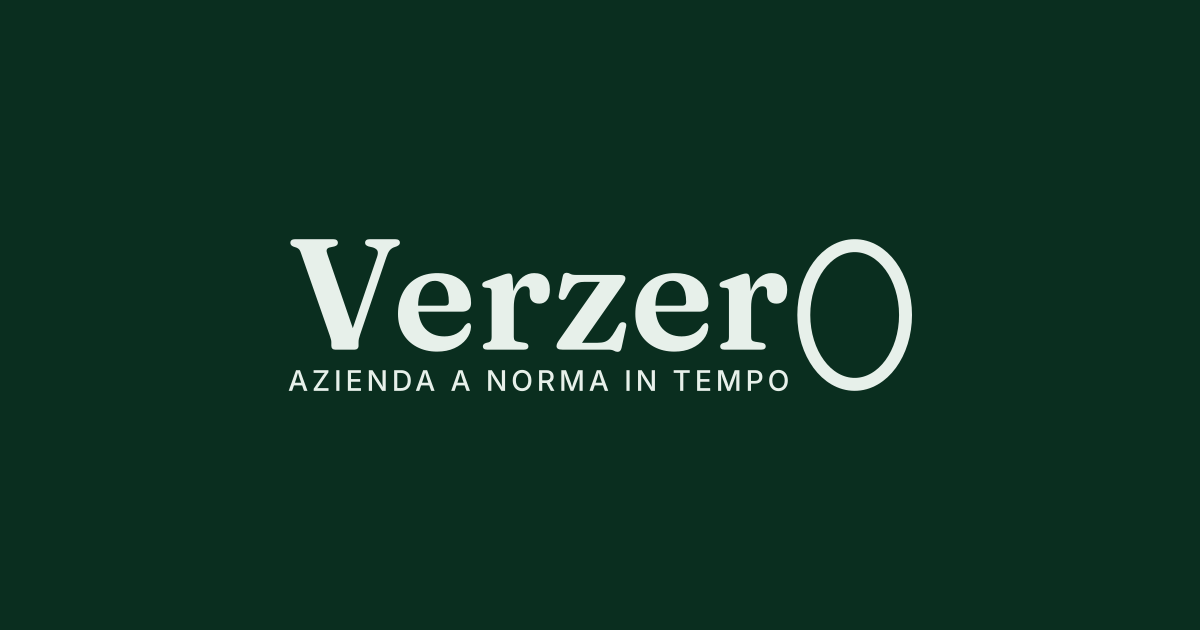
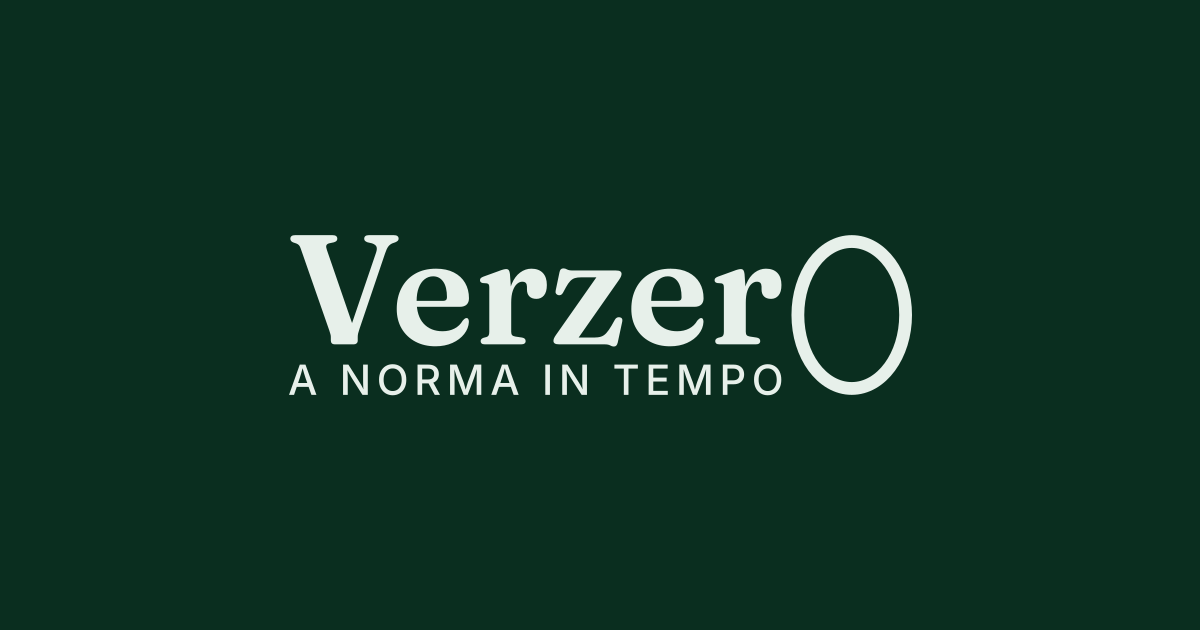
Il payoff si accorcia, e la riga del marchio cresce per stargli dietro
«A norma in tempo zero»: niente soggetto, niente punteggiatura, zero
minuscolo — lì è l'aggettivo di «tempo», non il nome della cosa, e la
maiuscola in mezzo spezzava in due una frase che non ha virgole. La
costante è una sola e da lì scendono titolo del sito, slogan dei dati
strutturati, llms.txt, firma delle email e la riga 2 del lockup.

Nel marchio la riga 2 passa da ventiquattro caratteri a sedici, e le due
righe devono restare della stessa larghezza. Con la crenatura ferma
restava corta di un terzo; allargando solo la crenatura servivano trenta
centesimi di em fra una lettera e l'altra, cioè sedici lettere sparse.
Quindi cresce il CORPO — da 0,18 a 0,2663 em — e la crenatura resta
esattamente quella di prima, 13,5% del corpo: il payoff spazia come
spaziava e tutto il lavoro lo fa la scala, che è l'unica variabile che
non cambia il carattere della riga. Misurato in pagina: le due righe
finiscono sullo stesso pixel, e lo zero grande poggia sulla linea di
base del payoff a due centesimi di pixel.

Il payoff più grande ha abbassato la soglia sotto cui il lockup ripiega
sulla variante semplice: 56 px non erano più giustificati, perché a 38
il payoff è già ai dieci pixel che servono per leggerlo. La soglia ora
si calcola da quel numero invece di essere scelta — ed è così che ho
scoperto il difetto: la targa scaricabile era agganciata alla soglia, e
si sarebbe rimpicciolita di un terzo da sola. Una soglia dice quanto in
[…]

Changed region(s): [[0.2158, 0.3619, 0.74, 0.6333]]

diff --git a/src/lib/marchio-tracciati.ts b/src/lib/marchio-tracciati.ts
@@ -27,6 +27,6 @@ export const TRACCIATO_NOME =
 export const TRACCIATO_NOME_CORTO =
   "M0.4885 -0.6770Q0.4885 -0.6880 0.4960 -0.6940Q0.5035 -0.7000 0.5190 -0.7000L0.6780 -0.7000Q0.6940 -0.7000 0.7015 -0.6940Q0.7090 -0.6880 0.7090 -0.6775Q0.7090 -0.6695 0.7040 -0.6643Q0.6990 -0.6590 0.6875 -0.6540L0.6690 -0.6475Q0.6530 -0.6405 0.6428 -0.6270Q0.6325 -0.6135 0.6225 -0.5835L0.4580 -0.0985Q0.4520 -0.0810 0.4495 -0.0700Q0.4470 -0.0590 0.4470 -0.0475L0.4470 -0.0245Q0.4470 -0.0130 0.4400 -0.0065Q0.4330 0.0000 0.4220 0.0000L0.2990 0.0000Q0.2875 0.0000 0.2810 -0.0065Q0.2745 -0.0130 0.2745 -0.0255L0.2745 -0.0485Q0.2745 -0.0565 0.2717 -0.0660Q0.2690 -0.0755 0.2650 -0.0880L0.0820 -0.6125Q0.0770 -0.6280 0.0707 -0.6350Q0.0645 -0.6420 0.0535 -0.6465L0.0340 -0.6530Q0.0150 -0.6605 0.0150 -0.6770Q0.0150 -0.6880 0.0227 -0.6940Q0.0305 -0.7000 0.0460 -0.7000L0.2850 -0.7000Q0.3010 -0.7000 0.3085 -0.6940Q0.3160 -0.6880 0.3160 -0.6770Q0.3160 -0.6680 0.3105 -0.6627Q0.3050 -0.6575 0.2940 -0.6540L0.2615 -0.6470Q0.2485 -0.6425 0.2455 -0.6330Q0.2425 -0.6235 0.2500 -0.6030L0.4280 -0.0855L0.3810 -0.0495L0.5645 -0.5880Q0.5725 -0.6120 0.5673 -0.6255Q0.5620 -0.6390 0.5385 -0.6475L0.5100 -0.6540Q0.4995 -0.6580 0.4940 -0.6630Q0.4885 -0.6680 0.4885 -0.6770ZM1.1600 -0.2955Q1.1600 -0.2690 1.1450 -0.2547Q1.1300 -0.2405 1.1010 -0.2405L0.7890 -0.2405L0.7890 -0.2785L0.9935 -0.2785Q1.0190 -0.2785 1.0190 -0.3015Q1.0190 -0.3675 0.9950 -0.4017Q0.9710 -0.4360 0.9305 -0.4360Q0.8995 -0.4360 0.8755 -0.4170Q0.8515 -0.3980 0.8380 -0.3628Q0.8245 -0.3275 0.8245 -0.2775Q0.8245 -0.1810 0.8697 -0.1325Q0.9150 -0.0840 0.9905 -0.0840Q1.0345 -0.0840 1.0677 -0.1015Q1.1010 -0.1190 1.1195 -0.1515Q1.1285 -0.1615 1.1337 -0.1650Q1.1390 -0.1685 1.1445 -0.1685Q1.1525 -0.1685 1.1560 -0.1613Q1.1595 -0.1540 1.1595 -0.1440Q1.1575 -0.1020 1.1295 -0.0663Q1.1015 -0.0305 1.0540 -0.0090Q1.0065 0.0125 0.9450 0.0125Q0.8725 0.0125 0.8165 -0.0173Q0.7605 -0.0470 0.7287 -0.1008Q0.6970 -0.1545 0.6970 -0.2265Q0.6970 -0.3020 0.7272 -0.3605Q0.7575 -0.4190 0.8140 -0.4520Q0.8705 -0.4850 0.9490 -0.4850Q1.0160 -0.4850 1.0632 -0.4607Q1.1105 -0.4365 1.1352 -0.3937Q1.1600 -0.3510 1.1600 -0.2955ZM1.4132 -0.2650Q1.4132 -0.3375 1.4337 -0.3865Q1.4542 -0.4355 1.4877 -0.4602Q1.5212 -0.4850 1.5597 -0.4850Q1.6072 -0.4850 1.6332 -0.4580Q1.6592 -0.4310 1.6592 -0.3805Q1.6592 -0.3355 1.6407 -0.3135Q1.6222 -0.2915 1.5927 -0.2915Q1.5627 -0.2915 1.5472 -0.3075Q1.5317 -0.3235 1.5317 -0.3520L1.5317 -0.3700Q1.5312 -0.3860 1.5242 -0.3937Q1.5172 -0.4015 1.5012 -0.4015Q1.4837 -0.4015 1.4674 -0.3870Q1.4512 -0.3725 1.4409 -0.3430Q1.4307 -0.3135 1.4307 -0.2675L1.4132 -0.2650ZM1.4227 -0.4505L1.4307 -0.3370L1.4307 -0.0805Q1.4307 -0.0660 1.4365 -0.0592Q1.4422 -0.0525 1.4572 -0.0500L1.5002 -0.0435Q1.5117 -0.0415 1.5174 -0.0360Q1.5232 -0.0305 1.5232 -0.0210Q1.5232 -0.0110 1.5160 -0.0055Q1.5087 0.0000 1.4952 0.0000L1.2617 0.0000Q1.2477 0.0000 1.2412 -0.0055Q1.2347 -0.0110 1.2347 -0.0205Q1.2347 -0.0280 1.2392 -0.0333Q1.2437 -0.0385 1.2532 -0.0420L1.2727 -0.0470Q1.2817 -0.0500 1.2860 -0.0573Q1.2902 -0.0645 1.2902 -0.0800L1.2902 -0.3655Q1.2902 -0.3785 1.2865 -0.3840Q1.2827 -0.3895 1.2742 -0.3910L1.2477 -0.3930Q1.2387 -0.3950 1.2347 -0.3995Q1.2307 -0.4040 1.2307 -0.4110Q1.2307 -0.4195 1.2357 -0.4245Q1.2407 -0.4295 1.2537 -0.4345L1.3447 -0.4675Q1.3692 -0.4770 1.3807 -0.4798Q1.3922 -0.4825 1.3987 -0.4825Q1.4097 -0.4825 1.4152 -0.4753Q1.4207 -0.4680 1.4227 -0.4505Z";
 
-/** «AZIENDA A NORMA IN TEMPO» in Inter 500, già crenato per il lockup. */
+/** «A NORMA IN TEMPO» in Inter 500, già crenato per il lockup. */
 export const TRACCIATO_PAYOFF =
-  "M0.0249 0.0000L0.2837 -0.7275L0.4204 -0.7275L0.6841 0.0000L0.5635 0.0000L0.4219 -0.4048Q0.4053 -0.4541 0.3855 -0.5210Q0.3657 -0.5879 0.3398 -0.6816L0.3623 -0.6816Q0.3374 -0.5869 0.3176 -0.5193Q0.2979 -0.4517 0.2827 -0.4048L0.1455 0.0000L0.0249 0.0000ZM0.1650 -0.1919L0.1650 -0.2847L0.5435 -0.2847L0.5435 -0.1919L0.1650 -0.1919ZM0.9047 0.0000L0.9047 -0.0732L1.2196 -0.5347Q1.2435 -0.5693 1.2711 -0.6040Q1.2987 -0.6387 1.3261 -0.6729L1.3368 -0.6367Q1.2904 -0.6333 1.2438 -0.6326Q1.1972 -0.6318 1.1513 -0.6318L0.9017 -0.6318L0.9017 -0.7275L1.4232 -0.7275L1.4232 -0.6533L1.1132 -0.1997Q1.0878 -0.1631 1.0592 -0.1267Q1.0307 -0.0903 1.0018 -0.0547L0.9911 -0.0908Q1.0380 -0.0942 1.0849 -0.0950Q1.1317 -0.0957 1.1786 -0.0957L1.4262 -0.0957L1.4262 0.0000L0.9047 0.0000ZM1.8110 -0.7275L1.8110 0.0000L1.6997 0.0000L1.6997 -0.7275L1.8110 -0.7275ZM2.1071 0.0000L2.1071 -0.7275L2.5651 -0.7275L2.5651 -0.6318L2.2184 -0.6318L2.2184 -0.4150L2.5402 -0.4150L2.5402 -0.3198L2.2184 -0.3198L2.2184 -0.0957L2.5680 -0.0957L2.5680 0.0000L2.1071 0.0000ZM2.8451 0.0000L2.8451 -0.7275L2.9735 -0.7275L3.2474 -0.2944Q3.2611 -0.2729 3.2782 -0.2432Q3.2953 -0.2134 3.3143 -0.1760Q3.3333 -0.1387 3.3519 -0.0947L3.3382 -0.0947Q3.3338 -0.1362 3.3316 -0.1770Q3.3294 -0.2178 3.3285 -0.2534Q3.3275 -0.2891 3.3275 -0.3135L3.3275 -0.7275L3.4403 -0.7275L3.4403 0.0000L3.3114 0.0000L3.0658 -0.3872Q3.0462 -0.4189 3.0274 -0.4512Q3.0086 -0.4834 2.9859 -0.5256Q2.9632 -0.5679 2.9305 -0.6284L2.9481 -0.6284Q2.9505 -0.5747 2.9530 -0.5281Q2.9554 -0.4814 2.9566 -0.4456Q2.9579 -0.4097 2.9579 -0.3882L2.9579 0.0000L2.8451 0.0000ZM3.9725 0.0000L3.7928 0.0000L3.7928 -0.0977L3.9667 -0.0977Q4.0492 -0.0977 4.1039 -0.1284Q4.1585 -0.1592 4.1859 -0.2190Q4.2132 -0.2788 4.2132 -0.3647Q4.2132 -0.4502 4.1861 -0.5093Q4.1590 -0.5684 4.1056 -0.5991Q4.0521 -0.6299 3.9725 -0.6299L3.7889 -0.6299L3.7889 -0.7275L3.9798 -0.7275Q4.0873 -0.7275 4.1639 -0.6841Q4.2406 -0.6406 4.2816 -0.5593Q4.3226 -0.4780 4.3226 -0.3647Q4.3226 -0.2510 4.2814 -0.1694Q4.2401 -0.0879 4.1617 -0.0439Q4.0834 0.0000 3.9725 0.0000ZM3.8475 -0.7275L3.8475 0.0000L3.7362 0.0000L3.7362 -0.7275L3.8475 -0.7275ZM4.5004 0.0000L4.7592 -0.7275L4.8959 -0.7275L5.1595 0.0000L5.0389 0.0000L4.8973 -0.4048Q4.8807 -0.4541 4.8610 -0.5210Q4.8412 -0.5879 4.8153 -0.6816L4.8378 -0.6816Q4.8129 -0.5869 4.7931 -0.5193Q4.7733 -0.4517 4.7582 -0.4048L4.6210 0.0000L4.5004 0.0000ZM4.6405 -0.1919L4.6405 -0.2847L5.0189 -0.2847L5.0189 -0.1919L4.6405 -0.1919ZM5.7453 0.0000L6.0041 -0.7275L6.1408 -0.7275L6.4045 0.0000L6.2839 0.0000L6.1423 -0.4048Q6.1257 -0.4541 6.1059 -0.5210Q6.0861 -0.5879 6.0602 -0.6816L6.0827 -0.6816Q6.0578 -0.5869 6.0380 -0.5193Q6.0182 -0.4517 6.0031 -0.4048L5.8659 0.0000L5.7453 0.0000ZM5.8854 -0.1919L5.8854 -0.2847L6.2638 -0.2847L6.2638 -0.1919L5.8854 -0.1919ZM7.0459 0.0000L7.0459 -0.7275L7.1743 -0.7275L7.4482 -0.2944Q7.4619 -0.2729 7.4790 -0.2432Q7.4961 -0.2134 7.5151 -0.1760Q7.5341 -0.1387 7.5527 -0.0947L7.5390 -0.0947Q7.5346 -0.1362 7.5324 -0.1770Q7.5302 -0.2178 7.5293 -0.2534Q7.5283 -0.2891 7.5283 -0.3135L7.5283 -0.7275L7.6411 -0.7275L7.6411 0.0000L7.5122 0.0000L7.2666 -0.3872Q7.2470 -0.4189 7.2282 -0.4512Q7.2094 -0.4834 7.1867 -0.5256Q7.1640 -0.5679 7.1313 -0.6284L7.1489 -0.6284Q7.1513 -0.5747 7.1538 -0.5281Q7.1562 -0.4814 7.1574 -0.4456Q7.1587 -0.4097 7.1587 -0.3882L7.1587 0.0000L7.0459 0.0000ZM8.2402 0.0098Q8.1460 0.0098 8.0715 -0.0349Q7.9970 -0.0796 7.9543 -0.1633Q7.9116 -0.2471 7.9116 -0.3633Q7.9116 -0.4800 7.9543 -0.5637Q7.9970 -0.6475 8.0715 -0.6924Q8.1460 -0.7373 8.2402 -0.7373Q8.3344 -0.7373 8.4084 -0.6924Q8.4824 -0.6475 8.5251 -0.5637Q8.5678 -0.4800 8.5678 -0.3633Q8.5678 -0.2471 8.5251 -0.1633Q8.4824 -0.0796 8.4084 -0.0349Q8.3344 0.0098 8.2402 0.0098ZM8.2402 -0.0918Q8.3022 -0.0918 8.3513 -0.1228Q8.4004 -0.1538 8.4289 -0.2146Q8.4575 -0.2754 8.4575 -0.3633Q8.4575 -0.4521 8.4289 -0.5129Q8.4004 -0.5737 8.3513 -0.6047Q8.3022 -0.6357 8.2402 -0.6357Q8.1777 -0.6357 8.1284 -0.6045Q8.0791 -0.5732 8.0505 -0.5125Q8.0219 -0.4517 8.0219 -0.3633Q8.0219 -0.2754 8.0505 -0.2148Q8.0791 -0.1543 8.1284 -0.1230Q8.1777 -0.0918 8.2402 -0.0918ZM8.8384 0.0000L8.8384 -0.7275L9.0991 -0.7275Q9.1831 -0.7275 9.2392 -0.6985Q9.2954 -0.6694 9.3232 -0.6177Q9.3511 -0.5659 9.3511 -0.4990Q9.3511 -0.4316 9.3230 -0.3811Q9.2949 -0.3306 9.2388 -0.3027Q9.1826 -0.2749 9.0981 -0.2749L8.9023 -0.2749L8.9023 -0.3701L9.0874 -0.3701Q9.1411 -0.3701 9.1741 -0.3855Q9.2070 -0.4009 9.2226 -0.4297Q9.2383 -0.4585 9.2383 -0.4990Q9.2383 -0.5400 9.2226 -0.5698Q9.2070 -0.5996 9.1738 -0.6160Q9.1406 -0.6323 9.0864 -0.6323L8.9497 -0.6323L8.9497 0.0000L8.8384 0.0000ZM9.2519 0.0000L9.0757 -0.3286L9.1992 -0.3286L9.3784 0.0000L9.2519 0.0000ZM9.6211 0.0000L9.6211 -0.7275L9.7852 -0.7275L9.9439 -0.3101Q9.9507 -0.2915 9.9593 -0.2632Q9.9678 -0.2349 9.9771 -0.2017Q9.9864 -0.1685 9.9947 -0.1362Q10.0030 -0.1040 10.0093 -0.0781L9.9859 -0.0781Q9.9922 -0.1025 10.0005 -0.1345Q10.0088 -0.1665 10.0181 -0.1997Q10.0274 -0.2329 10.0362 -0.2622Q10.0449 -0.2915 10.0518 -0.3101L10.2080 -0.7275L10.3731 -0.7275L10.3731 0.0000L10.2622 0.0000L10.2622 -0.3916Q10.2622 -0.4141 10.2627 -0.4453Q10.2632 -0.4766 10.2639 -0.5115Q10.2647 -0.5464 10.2654 -0.5820Q10.2661 -0.6177 10.2666 -0.6504L10.2749 -0.6504Q10.2652 -0.6147 10.2537 -0.5769Q10.2422 -0.5391 10.2312 -0.5039Q10.2202 -0.4688 10.2102 -0.4397Q10.2002 -0.4106 10.1934 -0.3916L10.0445 0.0000L9.9492 0.0000L9.7984 -0.3916Q9.7910 -0.4102 9.7815 -0.4387Q9.7720 -0.4673 9.7608 -0.5022Q9.7495 -0.5371 9.7378 -0.5750Q9.7261 -0.6128 9.7144 -0.6504L9.7241 -0.6504Q9.7251 -0.6206 9.7259 -0.5857Q9.7266 -0.5508 9.7273 -0.5151Q9.7280 -0.4795 9.7288 -0.4475Q9.7295 -0.4155 9.7295 -0.3916L9.7295 0.0000L9.6211 0.0000ZM10.6131 0.0000L10.8719 -0.7275L11.0086 -0.7275L11.2722 0.0000L11.1516 0.0000L11.0100 -0.4048Q10.9934 -0.4541 10.9737 -0.5210Q10.9539 -0.5879 10.9280 -0.6816L10.9505 -0.6816Q10.9256 -0.5869 10.9058 -0.5193Q10.8860 -0.4517 10.8709 -0.4048L10.7337 0.0000L10.6131 0.0000ZM10.7532 -0.1919L10.7532 -0.2847L11.1316 -0.2847L11.1316 -0.1919L10.7532 -0.1919ZM12.0250 -0.7275L12.0250 0.0000L11.9136 0.0000L11.9136 -0.7275L12.0250 -0.7275ZM12.3210 0.0000L12.3210 -0.7275L12.4495 -0.7275L12.7234 -0.2944Q12.7371 -0.2729 12.7542 -0.2432Q12.7712 -0.2134 12.7903 -0.1760Q12.8093 -0.1387 12.8279 -0.0947L12.8142 -0.0947Q12.8098 -0.1362 12.8076 -0.1770Q12.8054 -0.2178 12.8044 -0.2534Q12.8035 -0.2891 12.8035 -0.3135L12.8035 -0.7275L12.9163 -0.7275L12.9163 0.0000L12.7874 0.0000L12.5417 -0.3872Q12.5222 -0.4189 12.5034 -0.4512Q12.4846 -0.4834 12.4619 -0.5256Q12.4392 -0.5679 12.4065 -0.6284L12.4241 -0.6284Q12.4265 -0.5747 12.4290 -0.5281Q12.4314 -0.4814 12.4326 -0.4456Q12.4338 -0.4097 12.4338 -0.3882L12.4338 0.0000L12.3210 0.0000ZM13.5768 -0.6318L13.5768 -0.7275L14.1418 -0.7275L14.1418 -0.6318L13.9157 -0.6318L13.9157 0.0000L13.8039 0.0000L13.8039 -0.6318L13.5768 -0.6318ZM14.4011 0.0000L14.4011 -0.7275L14.8591 -0.7275L14.8591 -0.6318L14.5125 -0.6318L14.5125 -0.4150L14.8342 -0.4150L14.8342 -0.3198L14.5125 -0.3198L14.5125 -0.0957L14.8621 -0.0957L14.8621 0.0000L14.4011 0.0000ZM15.1391 0.0000L15.1391 -0.7275L15.3032 -0.7275L15.4619 -0.3101Q15.4687 -0.2915 15.4773 -0.2632Q15.4858 -0.2349 15.4951 -0.2017Q15.5044 -0.1685 15.5127 -0.1362Q15.5210 -0.1040 15.5273 -0.0781L15.5039 -0.0781Q15.5102 -0.1025 15.5185 -0.1345Q15.5268 -0.1665 15.5361 -0.1997Q15.5454 -0.2329 15.5542 -0.2622Q15.5630 -0.2915 15.5698 -0.3101L15.7260 -0.7275L15.8911 -0.7275L15.8911 0.0000L15.7802 0.0000L15.7802 -0.3916Q15.7802 -0.4141 15.7807 -0.4453Q15.7812 -0.4766 15.7819 -0.5115Q15.7827 -0.5464 15.7834 -0.5820Q15.7841 -0.6177 15.7846 -0.6504L15.7929 -0.6504Q15.7832 -0.6147 15.7717 -0.5769Q15.7602 -0.5391 15.7492 -0.5039Q15.7382 -0.4688 15.7282 -0.4397Q15.7182 -0.4106 15.7114 -0.3916L15.5625 0.0000L15.4673 0.0000L15.3164 -0.3916Q15.3090 -0.4102 15.2995 -0.4387Q15.2900 -0.4673 15.2788 -0.5022Q15.2675 -0.5371 15.2558 -0.5750Q15.2441 -0.6128 15.2324 -0.6504L15.2422 -0.6504Q15.2431 -0.6206 15.2439 -0.5857Q15.2446 -0.5508 15.2453 -0.5151Q15.2461 -0.4795 15.2468 -0.4475Q15.2475 -0.4155 15.2475 -0.3916L15.2475 0.0000L15.1391 0.0000ZM16.1867 0.0000L16.1867 -0.7275L16.4475 -0.7275Q16.5315 -0.7275 16.5876 -0.6963Q16.6438 -0.6650 16.6716 -0.6118Q16.6994 -0.5586 16.6994 -0.4912Q16.6994 -0.4238 16.6714 -0.3704Q16.6433 -0.3169 16.5871 -0.2859Q16.5310 -0.2549 16.4465 -0.2549L16.2683 -0.2549L16.2683 -0.3491L16.4358 -0.3491Q16.4895 -0.3491 16.5227 -0.3677Q16.5559 -0.3862 16.5713 -0.4185Q16.5866 -0.4507 16.5866 -0.4912Q16.5866 -0.5322 16.5713 -0.5642Q16.5559 -0.5962 16.5224 -0.6143Q16.4890 -0.6323 16.4348 -0.6323L16.2981 -0.6323L16.2981 0.0000L16.1867 0.0000ZM17.2666 0.0098Q17.1724 0.0098 17.0979 -0.0349Q17.0234 -0.0796 16.9807 -0.1633Q16.9380 -0.2471 16.9380 -0.3633Q16.9380 -0.4800 16.9807 -0.5637Q17.0234 -0.6475 17.0979 -0.6924Q17.1724 -0.7373 17.2666 -0.7373Q17.3608 -0.7373 17.4348 -0.6924Q17.5088 -0.6475 17.5515 -0.5637Q17.5942 -0.4800 17.5942 -0.3633Q17.5942 -0.2471 17.5515 -0.1633Q17.5088 -0.0796 17.4348 -0.0349Q17.3608 0.0098 17.2666 0.0098ZM17.2666 -0.0918Q17.3286 -0.0918 17.3777 -0.1228Q17.4268 -0.1538 17.4553 -0.2146Q17.4839 -0.2754 17.4839 -0.3633Q17.4839 -0.4521 17.4553 -0.5129Q17.4268 -0.5737 17.3777 -0.6047Q17.3286 -0.6357 17.2666 -0.6357Q17.2041 -0.6357 17.1548 -0.6045Q17.1055 -0.5732 17.0769 -0.5125Q17.0483 -0.4517 17.0483 -0.3633Q17.0483 -0.2754 17.0769 -0.2148Q17.1055 -0.1543 17.1548 -0.1230Q17.2041 -0.0918 17.2666 -0.0918Z";
+  "M0.0249 0.0000L0.2837 -0.7275L0.4204 -0.7275L0.6841 0.0000L0.5635 0.0000L0.4219 -0.4048Q0.4053 -0.4541 0.3855 -0.5210Q0.3657 -0.5879 0.3398 -0.6816L0.3623 -0.6816Q0.3374 -0.5869 0.3176 -0.5193Q0.2979 -0.4517 0.2827 -0.4048L0.1455 0.0000L0.0249 0.0000ZM0.1650 -0.1919L0.1650 -0.2847L0.5435 -0.2847L0.5435 -0.1919L0.1650 -0.1919ZM1.3255 0.0000L1.3255 -0.7275L1.4539 -0.7275L1.7278 -0.2944Q1.7415 -0.2729 1.7586 -0.2432Q1.7757 -0.2134 1.7947 -0.1760Q1.8138 -0.1387 1.8323 -0.0947L1.8187 -0.0947Q1.8143 -0.1362 1.8121 -0.1770Q1.8099 -0.2178 1.8089 -0.2534Q1.8079 -0.2891 1.8079 -0.3135L1.8079 -0.7275L1.9207 -0.7275L1.9207 0.0000L1.7918 0.0000L1.5462 -0.3872Q1.5267 -0.4189 1.5079 -0.4512Q1.4891 -0.4834 1.4664 -0.5256Q1.4437 -0.5679 1.4109 -0.6284L1.4285 -0.6284Q1.4310 -0.5747 1.4334 -0.5281Q1.4358 -0.4814 1.4371 -0.4456Q1.4383 -0.4097 1.4383 -0.3882L1.4383 0.0000L1.3255 0.0000ZM2.5198 0.0098Q2.4256 0.0098 2.3511 -0.0349Q2.2767 -0.0796 2.2339 -0.1633Q2.1912 -0.2471 2.1912 -0.3633Q2.1912 -0.4800 2.2339 -0.5637Q2.2767 -0.6475 2.3511 -0.6924Q2.4256 -0.7373 2.5198 -0.7373Q2.6141 -0.7373 2.6880 -0.6924Q2.7620 -0.6475 2.8047 -0.5637Q2.8475 -0.4800 2.8475 -0.3633Q2.8475 -0.2471 2.8047 -0.1633Q2.7620 -0.0796 2.6880 -0.0349Q2.6141 0.0098 2.5198 0.0098ZM2.5198 -0.0918Q2.5818 -0.0918 2.6309 -0.1228Q2.6800 -0.1538 2.7085 -0.2146Q2.7371 -0.2754 2.7371 -0.3633Q2.7371 -0.4521 2.7085 -0.5129Q2.6800 -0.5737 2.6309 -0.6047Q2.5818 -0.6357 2.5198 -0.6357Q2.4573 -0.6357 2.4080 -0.6045Q2.3587 -0.5732 2.3301 -0.5125Q2.3016 -0.4517 2.3016 -0.3633Q2.3016 -0.2754 2.3301 -0.2148Q2.3587 -0.1543 2.4080 -0.1230Q2.4573 -0.0918 2.5198 -0.0918ZM3.1180 0.0000L3.1180 -0.7275L3.3787 -0.7275Q3.4627 -0.7275 3.5189 -0.6985Q3.5750 -0.6694 3.6028 -0.6177Q3.6307 -0.5659 3.6307 -0.4990Q3.6307 -0.4316 3.6026 -0.3811Q3.5745 -0.3306 3.5184 -0.3027Q3.4622 -0.2749 3.3778 -0.2749L3.1820 -0.2749L3.1820 -0.3701L3.3670 -0.3701Q3.4207 -0.3701 3.4537 -0.3855Q3.4866 -0.4009 3.5023 -0.4297Q3.5179 -0.4585 3.5179 -0.4990Q3.5179 -0.5400 3.5023 -0.5698Q3.4866 -0.5996 3.4534 -0.6160Q3.4202 -0.6323 3.3660 -0.6323L3.2293 -0.6323L3.2293 0.0000L3.1180 0.0000ZM3.5316 0.0000L3.3553 -0.3286L3.4788 -0.3286L3.6580 0.0000L3.5316 0.0000ZM3.9007 0.0000L3.9007 -0.7275L4.0648 -0.7275L4.2235 -0.3101Q4.2303 -0.2915 4.2389 -0.2632Q4.2474 -0.2349 4.2567 -0.2017Q4.2660 -0.1685 4.2743 -0.1362Q4.2826 -0.1040 4.2889 -0.0781L4.2655 -0.0781Q4.2718 -0.1025 4.2801 -0.1345Q4.2884 -0.1665 4.2977 -0.1997Q4.3070 -0.2329 4.3158 -0.2622Q4.3246 -0.2915 4.3314 -0.3101L4.4876 -0.7275L4.6527 -0.7275L4.6527 0.0000L4.5418 0.0000L4.5418 -0.3916Q4.5418 -0.4141 4.5423 -0.4453Q4.5428 -0.4766 4.5435 -0.5115Q4.5443 -0.5464 4.5450 -0.5820Q4.5457 -0.6177 4.5462 -0.6504L4.5545 -0.6504Q4.5448 -0.6147 4.5333 -0.5769Q4.5218 -0.5391 4.5108 -0.5039Q4.4998 -0.4688 4.4898 -0.4397Q4.4798 -0.4106 4.4730 -0.3916L4.3241 0.0000L4.2289 0.0000L4.0780 -0.3916Q4.0706 -0.4102 4.0611 -0.4387Q4.0516 -0.4673 4.0404 -0.5022Q4.0291 -0.5371 4.0174 -0.5750Q4.0057 -0.6128 3.9940 -0.6504L4.0038 -0.6504Q4.0047 -0.6206 4.0055 -0.5857Q4.0062 -0.5508 4.0069 -0.5151Q4.0077 -0.4795 4.0084 -0.4475Q4.0091 -0.4155 4.0091 -0.3916L4.0091 0.0000L3.9007 0.0000ZM4.8927 0.0000L5.1515 -0.7275L5.2882 -0.7275L5.5519 0.0000L5.4313 0.0000L5.2897 -0.4048Q5.2731 -0.4541 5.2533 -0.5210Q5.2335 -0.5879 5.2076 -0.6816L5.2301 -0.6816Q5.2052 -0.5869 5.1854 -0.5193Q5.1656 -0.4517 5.1505 -0.4048L5.0133 0.0000L4.8927 0.0000ZM5.0328 -0.1919L5.0328 -0.2847L5.4112 -0.2847L5.4112 -0.1919L5.0328 -0.1919ZM6.3046 -0.7275L6.3046 0.0000L6.1933 0.0000L6.1933 -0.7275L6.3046 -0.7275ZM6.6007 0.0000L6.6007 -0.7275L6.7291 -0.7275L7.0030 -0.2944Q7.0167 -0.2729 7.0338 -0.2432Q7.0509 -0.2134 7.0699 -0.1760Q7.0889 -0.1387 7.1075 -0.0947L7.0938 -0.0947Q7.0894 -0.1362 7.0872 -0.1770Q7.0850 -0.2178 7.0841 -0.2534Q7.0831 -0.2891 7.0831 -0.3135L7.0831 -0.7275L7.1959 -0.7275L7.1959 0.0000L7.0670 0.0000L6.8214 -0.3872Q6.8018 -0.4189 6.7830 -0.4512Q6.7642 -0.4834 6.7415 -0.5256Q6.7188 -0.5679 6.6861 -0.6284L6.7037 -0.6284Q6.7061 -0.5747 6.7086 -0.5281Q6.7110 -0.4814 6.7122 -0.4456Q6.7135 -0.4097 6.7135 -0.3882L6.7135 0.0000L6.6007 0.0000ZM7.8564 -0.6318L7.8564 -0.7275L8.4214 -0.7275L8.4214 -0.6318L8.1953 -0.6318L8.1953 0.0000L8.0835 0.0000L8.0835 -0.6318L7.8564 -0.6318ZM8.6808 0.0000L8.6808 -0.7275L9.1388 -0.7275L9.1388 -0.6318L8.7921 -0.6318L8.7921 -0.4150L9.1139 -0.4150L9.1139 -0.3198L8.7921 -0.3198L8.7921 -0.0957L9.1417 -0.0957L9.1417 0.0000L8.6808 0.0000ZM9.4187 0.0000L9.4187 -0.7275L9.5828 -0.7275L9.7415 -0.3101Q9.7483 -0.2915 9.7569 -0.2632Q9.7654 -0.2349 9.7747 -0.2017Q9.7840 -0.1685 9.7923 -0.1362Q9.8006 -0.1040 9.8069 -0.0781L9.7835 -0.0781Q9.7898 -0.1025 9.7981 -0.1345Q9.8064 -0.1665 9.8157 -0.1997Q9.8250 -0.2329 9.8338 -0.2622Q9.8426 -0.2915 9.8494 -0.3101L10.0057 -0.7275L10.1707 -0.7275L10.1707 0.0000L10.0598 0.0000L10.0598 -0.3916Q10.0598 -0.4141 10.0603 -0.4453Q10.0608 -0.4766 10.0616 -0.5115Q10.0623 -0.5464 10.0630 -0.5820Q10.0638 -0.6177 10.0642 -0.6504L10.0725 -0.6504Q10.0628 -0.6147 10.0513 -0.5769Q10.0398 -0.5391 10.0288 -0.5039Q10.0179 -0.4688 10.0078 -0.4397Q9.9978 -0.4106 9.9910 -0.3916L9.8421 0.0000L9.7469 0.0000L9.5960 -0.3916Q9.5887 -0.4102 9.5791 -0.4387Q9.5696 -0.4673 9.5584 -0.5022Q9.5472 -0.5371 9.5354 -0.5750Q9.5237 -0.6128 9.5120 -0.6504L9.5218 -0.6504Q9.5227 -0.6206 9.5235 -0.5857Q9.5242 -0.5508 9.5249 -0.5151Q9.5257 -0.4795 9.5264 -0.4475Q9.5271 -0.4155 9.5271 -0.3916L9.5271 0.0000L9.4187 0.0000ZM10.4664 0.0000L10.4664 -0.7275L10.7271 -0.7275Q10.8111 -0.7275 10.8672 -0.6963Q10.9234 -0.6650 10.9512 -0.6118Q10.9791 -0.5586 10.9791 -0.4912Q10.9791 -0.4238 10.9510 -0.3704Q10.9229 -0.3169 10.8667 -0.2859Q10.8106 -0.2549 10.7261 -0.2549L10.5479 -0.2549L10.5479 -0.3491L10.7154 -0.3491Q10.7691 -0.3491 10.8023 -0.3677Q10.8355 -0.3862 10.8509 -0.4185Q10.8663 -0.4507 10.8663 -0.4912Q10.8663 -0.5322 10.8509 -0.5642Q10.8355 -0.5962 10.8020 -0.6143Q10.7686 -0.6323 10.7144 -0.6323L10.5777 -0.6323L10.5777 0.0000L10.4664 0.0000ZM11.5462 0.0098Q11.4520 0.0098 11.3775 -0.0349Q11.3030 -0.0796 11.2603 -0.1633Q11.2176 -0.2471 11.2176 -0.3633Q11.2176 -0.4800 11.2603 -0.5637Q11.3030 -0.6475 11.3775 -0.6924Q11.4520 -0.7373 11.5462 -0.7373Q11.6404 -0.7373 11.7144 -0.6924Q11.7884 -0.6475 11.8311 -0.5637Q11.8738 -0.4800 11.8738 -0.3633Q11.8738 -0.2471 11.8311 -0.1633Q11.7884 -0.0796 11.7144 -0.0349Q11.6404 0.0098 11.5462 0.0098ZM11.5462 -0.0918Q11.6082 -0.0918 11.6573 -0.1228Q11.7064 -0.1538 11.7349 -0.2146Q11.7635 -0.2754 11.7635 -0.3633Q11.7635 -0.4521 11.7349 -0.5129Q11.7064 -0.5737 11.6573 -0.6047Q11.6082 -0.6357 11.5462 -0.6357Q11.4837 -0.6357 11.4344 -0.6045Q11.3851 -0.5732 11.3565 -0.5125Q11.3279 -0.4517 11.3279 -0.3633Q11.3279 -0.2754 11.3565 -0.2148Q11.3851 -0.1543 11.4344 -0.1230Q11.4837 -0.0918 11.5462 -0.0918Z";

diff --git a/src/lib/marchio.ts b/src/lib/marchio.ts
@@ -74,19 +74,39 @@ const LARGHEZZA_NOME = 3.1772;
  */
 export const PAYOFF_LOCKUP = {
   /** Quello che si legge sulla riga 2. */
-  riga: "AZIENDA A NORMA IN TEMPO",
+  riga: "A NORMA IN TEMPO",
   /** Il payoff per esteso, dalla fonte unica dell'identità. */
   get completo() {
     return SITO.payoff;
   },
-  /** Corpo della riga 2, in em del logotipo. */
-  scala: 0.18,
+  /**
+   * Corpo della riga 2, in em del logotipo.
+   *
+   * ═══ NON È UN NUMERO SCELTO: È QUELLO CHE RESTA ═══
+   * Le due righe devono avere la stessa larghezza, e la riga 2 è passata
+   * da ventiquattro caratteri a sedici. Con la crenatura ferma restava
+   * una riga corta di un terzo; allargando solo la crenatura, a corpo
+   * invariato, servivano trenta centesimi di em fra una lettera e
+   * l'altra — cioè sedici lettere sparse, non un payoff.
+   *
+   * Quindi cresce il corpo, e la crenatura resta ESATTAMENTE quella di
+   * prima (0,1348 em, il 13,5% del corpo): il payoff spazia come
+   * spaziava, e tutto il lavoro lo fa la scala. È la variabile giusta da
+   * muovere perché è l'unica che non cambia il carattere della riga.
+   *
+   *   larghezza naturale di «A NORMA IN TEMPO»   9,90702 em del payoff
+   *   più quindici intervalli di crenatura      +2,022
+   *   per il corpo                              ×0,2663 = 3,1772 em
+   *
+   * che è la larghezza di «Verzer». Misurata, non arrotondata.
+   */
+  scala: 0.2663,
   peso: 500,
   /**
-   * La crenatura che porta la riga 2 alla larghezza esatta della riga 1,
-   * in em del PAYOFF. Ventitré intervalli e non ventiquattro: l'ultimo,
-   * quello dopo la «O» finale, il componente lo riprende con un rientro
-   * negativo, altrimenti l'inchiostro finirebbe prima del bordo.
+   * La crenatura, in em del PAYOFF. Quindici intervalli e non sedici:
+   * l'ultimo, quello dopo la «O» finale, la scatola lo riprende con la
+   * larghezza dichiarata, altrimenti l'inchiostro finirebbe prima del
+   * bordo.
    */
   tracking: 0.1348,
   /**
@@ -100,6 +120,12 @@ export const PAYOFF_LOCKUP = {
     return this.tracking * this.scala;
   },
 } as const;
+
+/**
+ * Sotto questa misura il payoff non è più una riga da leggere. È
+ * l'unico numero scelto della soglia: tutto il resto è una divisione.
+ */
+const PAYOFF_MINIMO_PX = 10;
 
 /* ------------------------------------------------------------------ */
 /* La composizione                                                     */
@@ -203,13 +229,16 @@ export const LOCKUP = {
   /**
    * SOTTO QUESTA MISURA si usa la variante semplice.
    *
-   * Il payoff sta a 0,18 em del logotipo: a 56 px il logotipo lo porta a
-   * ~10 px, che con quella crenatura è ancora una riga che si legge.
-   * Sotto, diventa un grigio con dentro delle forme — e un payoff che
-   * non si legge non è un marchio più piccolo, è sporcizia intorno al
-   * marchio. Il componente non lo mostra: cambia variante da solo.
+   * Non è una taratura: è una divisione. L'unico numero scelto è
+   * `PAYOFF_MINIMO_PX` — sotto i dieci pixel una riga maiuscola spaziata
+   * smette di essere una riga e diventa un grigio con dentro delle
+   * forme, e un payoff che non si legge non è un marchio più piccolo, è
+   * sporcizia intorno al marchio. La soglia del lockup è quel numero
+   * diviso il corpo del payoff, e si aggiusta da sola: col payoff
+   * cresciuto da 0,18 a 0,2663 em la soglia è scesa da 56 px a 38,
+   * perché a 38 px il payoff è già ai dieci che servono.
    */
-  minimaPx: 56,
+  minimaPx: Math.ceil(PAYOFF_MINIMO_PX / PAYOFF_LOCKUP.scala),
 } as const;
 
 /**

diff --git a/src/lib/targa-avvio.ts b/src/lib/targa-avvio.ts
@@ -28,13 +28,17 @@ const PAPER = "#FBFAF7";
 /**
  * Corpo del logotipo nel lockup della targa.
  *
- * È la misura minima del lockup (`LOCKUP.minimaPx`), non una più
- * piccola: a 34 unità il payoff scendeva a sei, cioè sotto la soglia
- * che il componente in pagina si rifiuta di attraversare. Una regola
- * che vale sullo schermo e non su un file che si stampa non è una
- * regola.
+ * Scelto per QUESTA impaginazione, e non agganciato a
+ * `LOCKUP.minimaPx`: lo era, e quando il payoff si è allungato la
+ * soglia minima è scesa da 56 a 38 — trascinandosi dietro il marchio
+ * della targa, che si è rimpicciolito di un terzo senza che nessuno lo
+ * avesse chiesto. Una soglia dice quanto in piccolo si PUÒ andare, non
+ * quanto grande deve stare una cosa.
+ *
+ * Deve restare sopra la soglia, e `scripts/test-marchio.mjs` lo
+ * controlla.
  */
-const MARCHIO_CORPO = LOCKUP.minimaPx;
+export const MARCHIO_TARGA_CORPO = 56;
 
 const esc = (s: string) =>
   s
@@ -130,7 +134,7 @@ export function targaAvvioSvg({
        senza finire addosso all'indirizzo di verifica.
        I margini sono l'AREA DI RISPETTO del marchio, presa da lì e non
        scelta a occhio. -->
-  <g transform="translate(${(235 - (MARCHIO_CORPO * LOCKUP.larghezza) / 2).toFixed(1)},${(612 - 34 - MARCHIO_CORPO * LOCKUP.altezza).toFixed(1)}) scale(${(MARCHIO_CORPO / 100).toFixed(4)})">
+  <g transform="translate(${(235 - (MARCHIO_TARGA_CORPO * LOCKUP.larghezza) / 2).toFixed(1)},${(612 - 34 - MARCHIO_TARGA_CORPO * LOCKUP.altezza).toFixed(1)}) scale(${(MARCHIO_TARGA_CORPO / 100).toFixed(4)})">
     ${marchioEstesoGruppo({ colore: PINE })}
   </g>
 </svg>

diff --git a/src/components/brand/marchio.tsx b/src/components/brand/marchio.tsx
@@ -19,8 +19,8 @@ import { LOCKUP, PAYOFF_LOCKUP, variantePer } from "@/lib/marchio";
  * Tre elementi in proporzioni fisse (`src/lib/marchio.ts`):
  *
  *   riga 1   «Verzer» — il logotipo PRIVATO dello zero finale
- *   riga 2   «AZIENDA A NORMA IN TEMPO» in Inter maiuscolo spaziato,
- *            della STESSA larghezza esatta della riga 1
+ *   riga 2   il payoff in Inter maiuscolo spaziato, della STESSA
+ *            larghezza esatta della riga 1
  *   a destra UN SOLO zero canonico, alto dall'altezza delle maiuscole
  *            della riga 1 fino alla linea di base del payoff
  *
@@ -30,9 +30,10 @@ import { LOCKUP, PAYOFF_LOCKUP, variantePer } from "@/lib/marchio";
  * «in tempo» e non con «in tempo Zero»: la parola c'è già, disegnata.
  *
  * ═══ PERCHÉ LE DUE RIGHE FINISCONO ALLINEATE ═══
- * Non per fortuna e non a occhio. La riga 2 ha una crenatura calcolata
- * (`PAYOFF_LOCKUP.tracking`) per portare «AZIENDA A NORMA IN TEMPO»
- * esattamente alla larghezza di «Verzer», e `text-align-last: justify`
+ * Non per fortuna e non a occhio. Il corpo della riga 2
+ * (`PAYOFF_LOCKUP.scala`) è calcolato per portarla esattamente alla
+ * larghezza di «Verzer» con la crenatura ferma, e
+ * `text-align-last: justify`
  * assorbe negli spazi fra le parole il residuo che resta quando il
  * carattere non è ancora arrivato o rende in modo un filo diverso. Senza
  * quel giustificato una differenza di mezzo pixel si vedrebbe: le due

diff --git a/src/lib/seo.ts b/src/lib/seo.ts
@@ -46,10 +46,17 @@ export const SITO = {
    * azienda» — non il tempo di lavorazione. Non è e non diventerà un
    * termine di consegna: la regola contro le quantificazioni di tempo
    * (SPEC §12.O) resta in vigore, e nessun testo può appoggiarsi al
-   * payoff per promettere una data. Chi scrive «pronto in tempo Zero»
+   * payoff per promettere una data. Chi scrive «pronto in tempo zero»
    * accanto a un percorso sta scrivendo un'altra cosa.
+   *
+   * ═══ «zero» MINUSCOLO, E NON È UNA SVISTA ═══
+   * Nel payoff lo zero è minuscolo: la frase non ha soggetto e non ha
+   * punteggiatura interna, e una maiuscola in mezzo la spezzerebbe in
+   * due. Il maiuscolo resta dove lo Zero è il NOME della cosa — «Zero
+   * effort», «Lo Zero di Ver0», il sottotitolo dell'hero. Qui è
+   * l'aggettivo di «tempo», e si scrive come si scrive.
    */
-  payoff: "Azienda a norma in tempo Zero",
+  payoff: "A norma in tempo zero",
   /**
    * LA DESCRIZIONE DELL'ENTITÀ — una sola, ovunque si descriva l'azienda.
    *

diff --git a/CLAUDE.md b/CLAUDE.md
@@ -254,13 +254,16 @@ Prove: `node --import ./scripts/risolutore-ts.mjs scripts/test-aeo.mjs`.
   **Un secondo lockup dentro la pagina è quasi sempre di troppo**: il
   footer lo porta su ogni pagina, quindi in fondo a una pagina
   istituzionale se ne vedrebbero due nella stessa schermata.
-- **Payoff di marca**: `Azienda a norma in tempo Zero`, fonte unica in
+- **Payoff di marca**: `A norma in tempo zero`, fonte unica in
   `SITO.payoff` (`src/lib/seo.ts`). Una forma sola, mai riscritta:
   accompagna il logotipo nel footer, chiude il titolo del sito
-  (`Verzero — Azienda a norma in tempo Zero`), è lo `slogan` di
+  (`Verzero — A norma in tempo zero`), è lo `slogan` di
   `Organization` e firma le email al cliente. Chi lo scrive a mano
   invece di leggerlo dalla costante fa fallire `scripts/test-aeo.mjs`,
-  che cerca le varianti vicine in tutto `src/`.
+  che cerca le varianti vicine in tutto `src/` — compresa la forma
+  ritirata di prima e le versioni con la punteggiatura che il payoff non
+  ha. Niente virgole dentro, niente punto in fondo, e `zero` minuscolo:
+  lì è l'aggettivo di «tempo», non il nome della cosa.
   **Che cosa significa «in tempo Zero»**: è lo Zero del sistema di
   marca — il tempo che ci mette il CLIENTE, «bastano i documenti che
   hai già» — e NON un termine di consegna. La regola contro le
